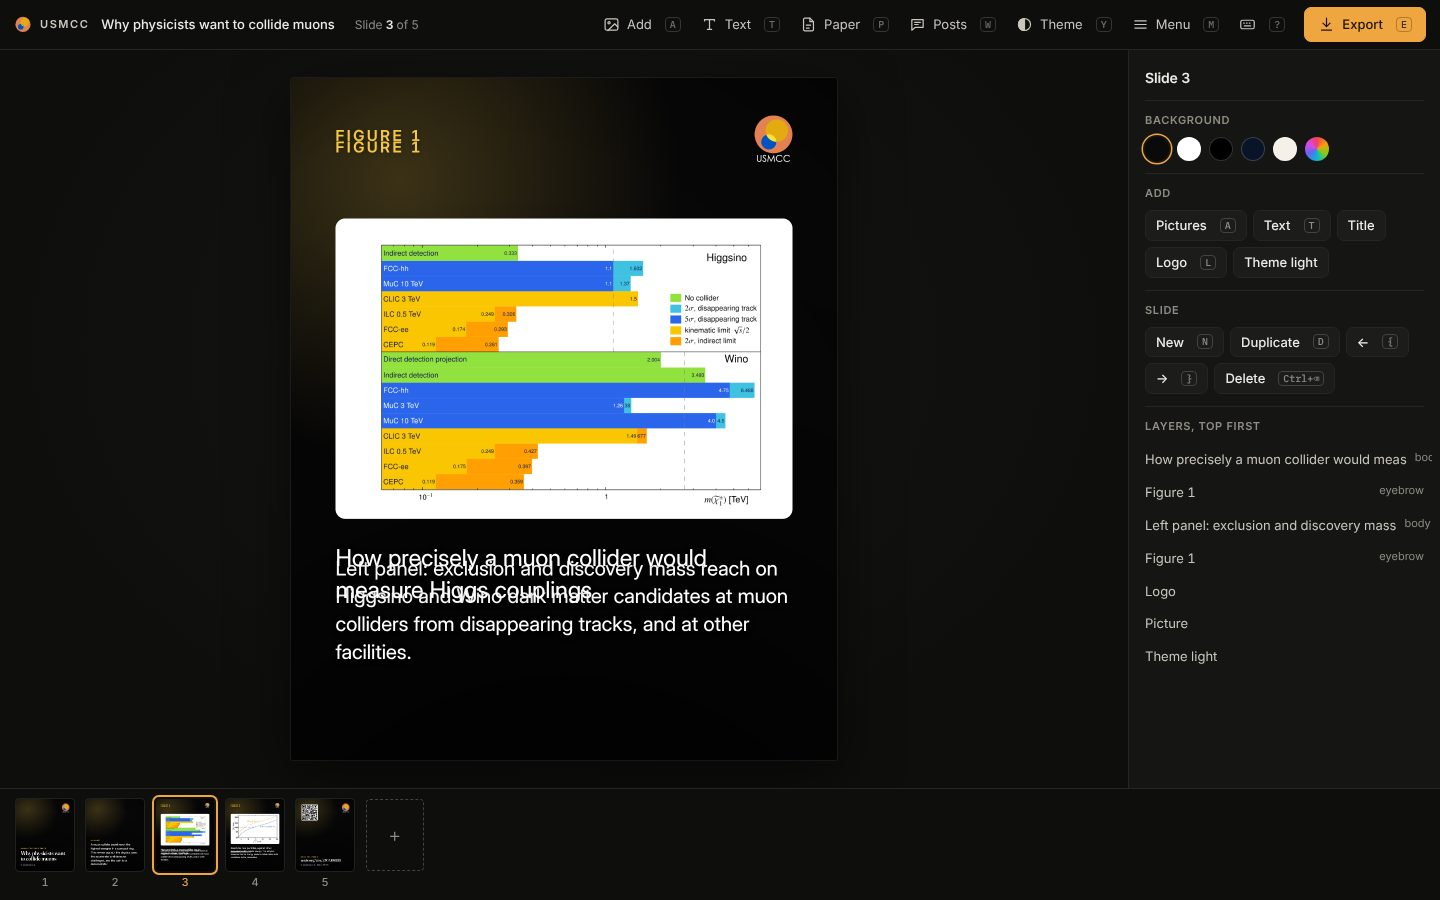
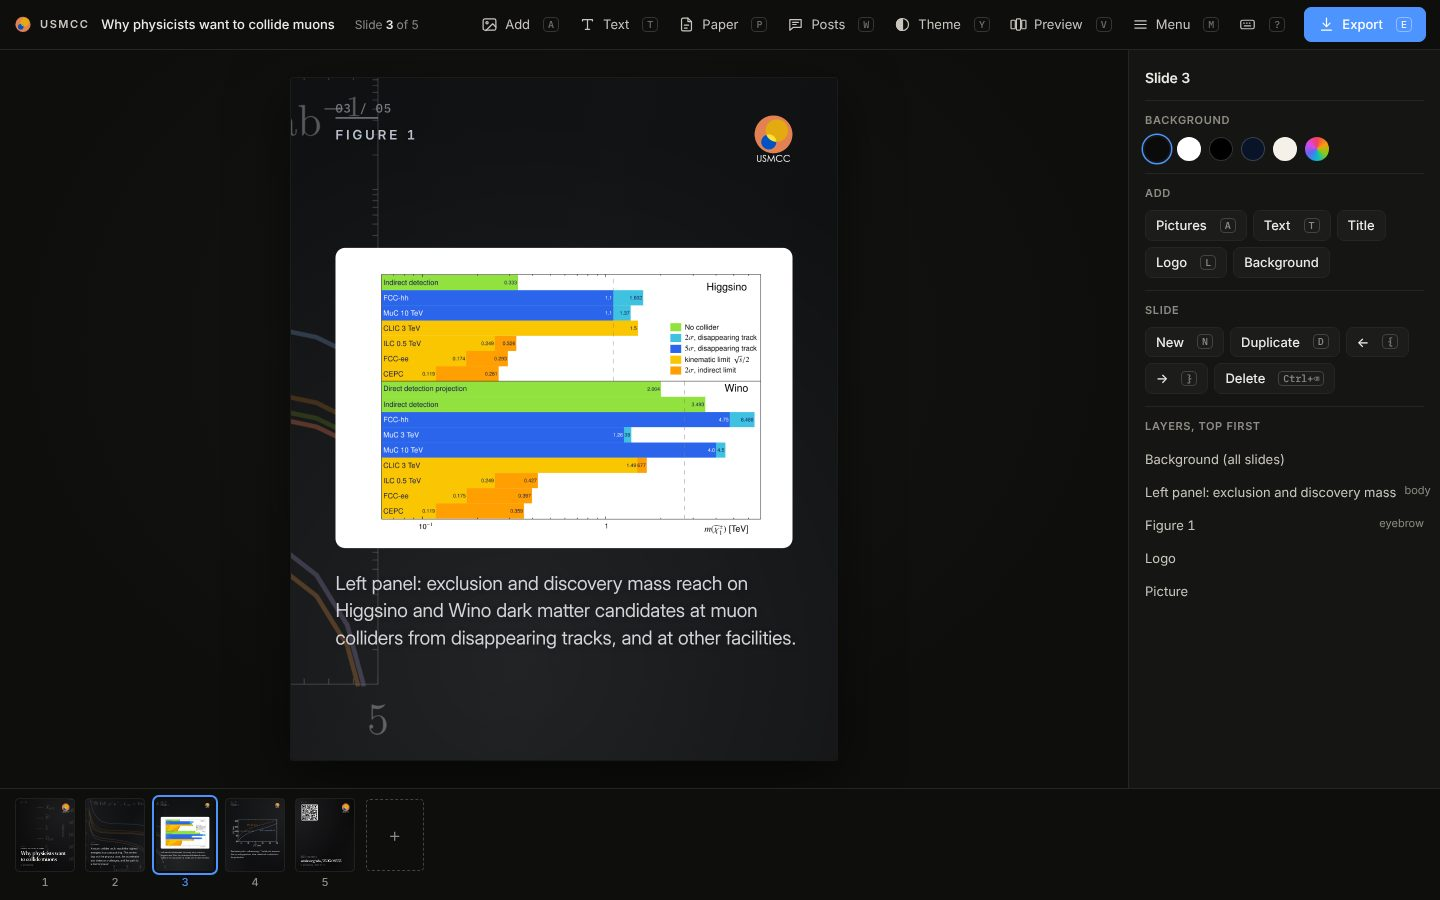
Folio in the free margin (it touched figure labels); fresh website screenshots
Claude-Session: https://claude.ai/code/session_01YCbY5Mb3Mx4CDfccQ3foDH

diff --git a/web/render.js b/web/render.js
@@ -645,8 +645,11 @@
     ctx.globalAlpha = 0.85;
     ctx.textBaseline = 'alphabetic';
     const t = `${String(i + 1).padStart(2, '0')} / ${String(n).padStart(2, '0')}`;
-    const y = theme.valign === 'bottom' ? SAFE - 20 : H - SAFE + 44;
-    const x = theme.valign === 'middle' ? (W - widthOf(ctx, t, st)) / 2 : SAFE;
+    // the margin the words and the logo leave: below the text on themes that
+    // set it from the bottom, above it on themes that set it from the top
+    const tw = widthOf(ctx, t, st);
+    const y = theme.valign === 'top' ? SAFE - 30 : H - SAFE + 52;
+    const x = theme.valign === 'middle' ? (W - tw) / 2 : W - SAFE - tw;
     ctx.fillText(t, x, y);
     ctx.globalAlpha = 1;
     if (HAS_LS) ctx.letterSpacing = '0px';
